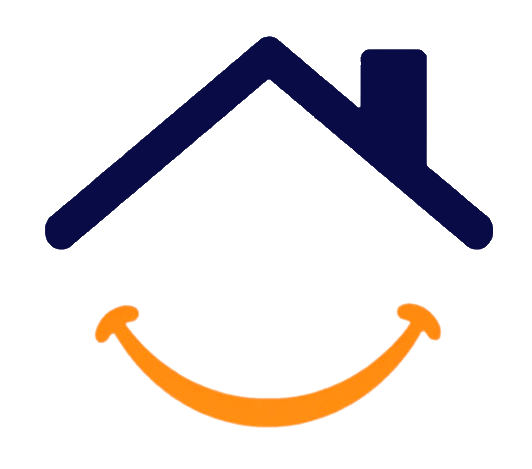
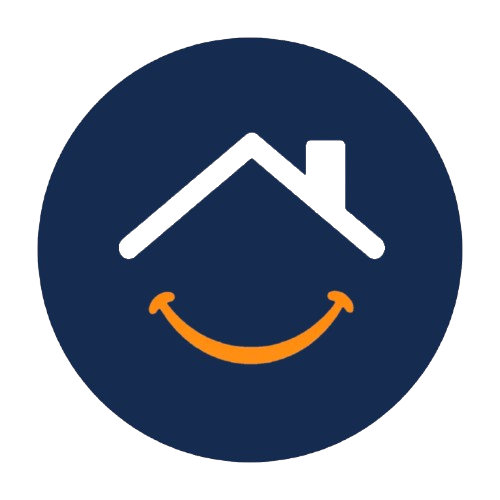
title image chnage and ogpreview image chnage

diff --git a/setmyplace-website/frontend/how-it-works.html b/setmyplace-website/frontend/how-it-works.html
@@ -13,11 +13,11 @@
 <meta property="og:description" content="Four simple steps to book unpacking, cleaning, furniture setup and home organisation after your move.">
 <meta property="og:url" content="https://www.setmyplace.com/how-it-works.html">
 <meta property="og:site_name" content="Set My Place">
-<meta property="og:image" content="https://www.setmyplace.com/assets/icon.png">
+<meta property="og:image" content="https://www.setmyplace.com/assets/og-preview.png">
 <meta name="twitter:card" content="summary_large_image">
 <meta name="twitter:title" content="How It Works — Set My Place Home Setup">
 <meta name="twitter:description" content="Four simple steps to book unpacking, cleaning, furniture setup and home organisation after your move.">
-<meta name="twitter:image" content="https://www.setmyplace.com/assets/icon.png">
+<meta name="twitter:image" content="https://www.setmyplace.com/assets/og-preview.png">
 <script type="application/ld+json">
 {"@context":"https://schema.org","@type":"HowTo","name":"How to book a ready-to-live home setup","description":"Book a ready-to-live home setup from Set My Place in four simple steps.","author":{"@type":"Organization","name":"Set My Place","sameAs":["https://www.facebook.com/profile.php?id=61594244943501"]},"step":[{"@type":"HowToStep","name":"Contact Set My Place"},{"@type":"HowToStep","name":"Get a quote"},{"@type":"HowToStep","name":"Book your date"},{"@type":"HowToStep","name":"Move into a ready home"}]}
 </script>

diff --git a/setmyplace-website/frontend/services.html b/setmyplace-website/frontend/services.html
@@ -13,11 +13,11 @@
 <meta property="og:description" content="Packing, unpacking, cleaning, furniture setup, home organisation and appliance setup for a ready-to-live home.">
 <meta property="og:url" content="https://www.setmyplace.com/services.html">
 <meta property="og:site_name" content="Set My Place">
-<meta property="og:image" content="https://www.setmyplace.com/assets/icon.png">
+<meta property="og:image" content="https://www.setmyplace.com/assets/og-preview.png">
 <meta name="twitter:card" content="summary_large_image">
 <meta name="twitter:title" content="Home Setup Services in Lucknow — Set My Place">
 <meta name="twitter:description" content="Packing, unpacking, cleaning, furniture setup, home organisation and appliance setup for a ready-to-live home.">
-<meta name="twitter:image" content="https://www.setmyplace.com/assets/icon.png">
+<meta name="twitter:image" content="https://www.setmyplace.com/assets/og-preview.png">
 <script type="application/ld+json">
 {"@context":"https://schema.org","@type":"Service","name":"Ready-to-live home setup services","provider":{"@type":"LocalBusiness","name":"Set My Place","url":"https://www.setmyplace.com/","sameAs":["https://www.facebook.com/profile.php?id=61594244943501"]},"areaServed":"Lucknow, Uttar Pradesh","serviceType":["Packers and movers","Unpacking","Home cleaning","Furniture setup","Home organisation","Appliance setup"]}
 </script>

diff --git a/setmyplace-website/frontend/contact.html b/setmyplace-website/frontend/contact.html
@@ -13,11 +13,11 @@
 <meta property="og:description" content="Get a quote for unpacking, cleaning, furniture setup or a complete ready-to-live home in Lucknow.">
 <meta property="og:url" content="https://www.setmyplace.com/contact.html">
 <meta property="og:site_name" content="Set My Place">
-<meta property="og:image" content="https://www.setmyplace.com/assets/icon.png">
+<meta property="og:image" content="https://www.setmyplace.com/assets/og-preview.png">
 <meta name="twitter:card" content="summary_large_image">
 <meta name="twitter:title" content="Contact Set My Place | Home Setup in Lucknow">
 <meta name="twitter:description" content="Get a quote for unpacking, cleaning, furniture setup or a complete ready-to-live home in Lucknow.">
-<meta name="twitter:image" content="https://www.setmyplace.com/assets/icon.png">
+<meta name="twitter:image" content="https://www.setmyplace.com/assets/og-preview.png">
 <script type="application/ld+json">
 {"@context":"https://schema.org","@type":"LocalBusiness","name":"Set My Place","url":"https://www.setmyplace.com/","sameAs":["https://www.facebook.com/profile.php?id=61594244943501"],"telephone":"+91 70070 45262","email":"support@setmyplace.com","areaServed":"Lucknow, Uttar Pradesh","contactPoint":{"@type":"ContactPoint","telephone":"+91 70070 45262","contactType":"customer service","availableLanguage":["English","Hindi"]}}
 </script>

diff --git a/setmyplace-website/frontend/partner.html b/setmyplace-website/frontend/partner.html
@@ -13,11 +13,11 @@
 <meta property="og:description" content="Help customers after the move and earn from referrals with Set My Place's home setup partner program.">
 <meta property="og:url" content="https://www.setmyplace.com/partner.html">
 <meta property="og:site_name" content="Set My Place">
-<meta property="og:image" content="https://www.setmyplace.com/assets/icon.png">
+<meta property="og:image" content="https://www.setmyplace.com/assets/og-preview.png">
 <meta name="twitter:card" content="summary_large_image">
 <meta name="twitter:title" content="Partner With Us in Lucknow — Set My Place">
 <meta name="twitter:description" content="Help customers after the move and earn from referrals with Set My Place's home setup partner program.">
-<meta name="twitter:image" content="https://www.setmyplace.com/assets/icon.png">
+<meta name="twitter:image" content="https://www.setmyplace.com/assets/og-preview.png">
 <script type="application/ld+json">
 {"@context":"https://schema.org","@type":"Organization","name":"Set My Place","url":"https://www.setmyplace.com/","sameAs":["https://www.facebook.com/profile.php?id=61594244943501"],"telephone":"+91 70070 45262","description":"A home setup referral partner for packers, movers, transport and relocation businesses in Lucknow."}
 </script>

diff --git a/setmyplace-website/frontend/why-us.html b/setmyplace-website/frontend/why-us.html
@@ -13,11 +13,11 @@
 <meta property="og:description" content="Verified partners, trained teams, transparent pricing and end-to-end support for your move-in setup.">
 <meta property="og:url" content="https://www.setmyplace.com/why-us.html">
 <meta property="og:site_name" content="Set My Place">
-<meta property="og:image" content="https://www.setmyplace.com/assets/icon.png">
+<meta property="og:image" content="https://www.setmyplace.com/assets/og-preview.png">
 <meta name="twitter:card" content="summary_large_image">
 <meta name="twitter:title" content="Why Choose Set My Place in Lucknow?">
 <meta name="twitter:description" content="Verified partners, trained teams, transparent pricing and end-to-end support for your move-in setup.">
-<meta name="twitter:image" content="https://www.setmyplace.com/assets/icon.png">
+<meta name="twitter:image" content="https://www.setmyplace.com/assets/og-preview.png">
 <script type="application/ld+json">
 {"@context":"https://schema.org","@type":"LocalBusiness","name":"Set My Place","url":"https://www.setmyplace.com/","sameAs":["https://www.facebook.com/profile.php?id=61594244943501"],"telephone":"+91 70070 45262","areaServed":"Lucknow, Uttar Pradesh","priceRange":"$$"}
 </script>

diff --git a/setmyplace-website/frontend/index.html b/setmyplace-website/frontend/index.html
@@ -13,11 +13,11 @@
 <meta property="og:description" content="Unpacking, cleaning, furniture setup and home organisation after your move, handled by verified teams in Lucknow and nearby areas.">
 <meta property="og:url" content="https://www.setmyplace.com/">
 <meta property="og:site_name" content="Set My Place">
-<meta property="og:image" content="https://www.setmyplace.com/assets/icon.png">
+<meta property="og:image" content="https://www.setmyplace.com/assets/og-preview.png">
 <meta name="twitter:card" content="summary_large_image">
 <meta name="twitter:title" content="Set My Place — Ready-to-Live Home Setup in Lucknow">
 <meta name="twitter:description" content="Unpacking, cleaning, furniture setup and home organisation after your move, handled by verified teams in Lucknow and nearby areas.">
-<meta name="twitter:image" content="https://www.setmyplace.com/assets/icon.png">
+<meta name="twitter:image" content="https://www.setmyplace.com/assets/og-preview.png">
 <script type="application/ld+json">
 {
   "@context": "https://schema.org",
